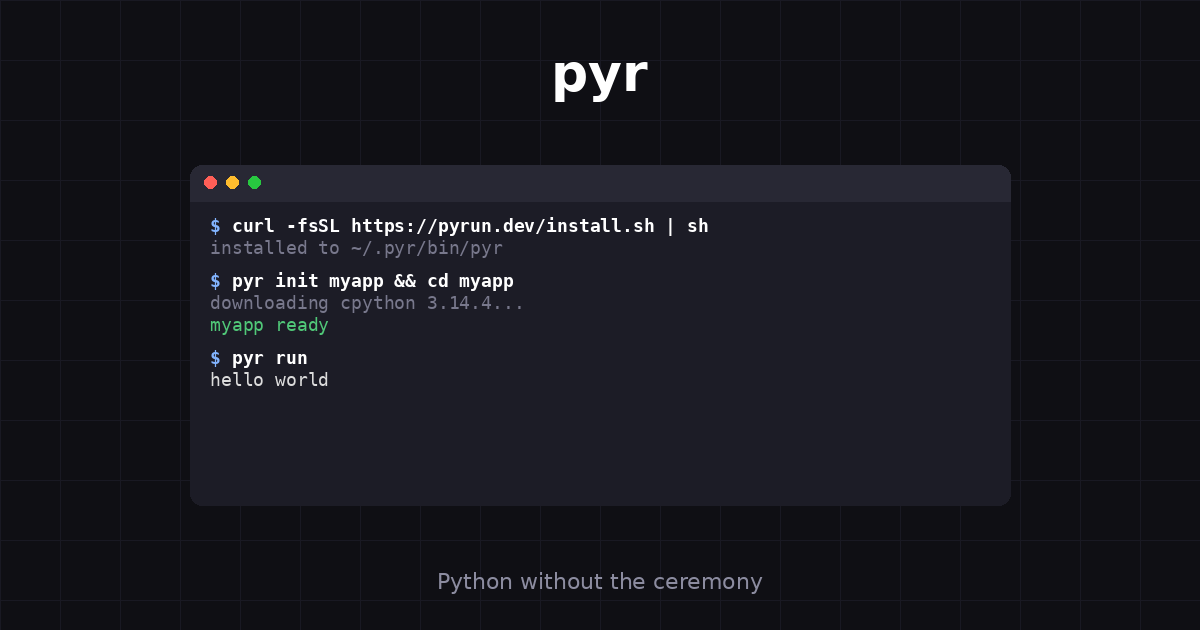
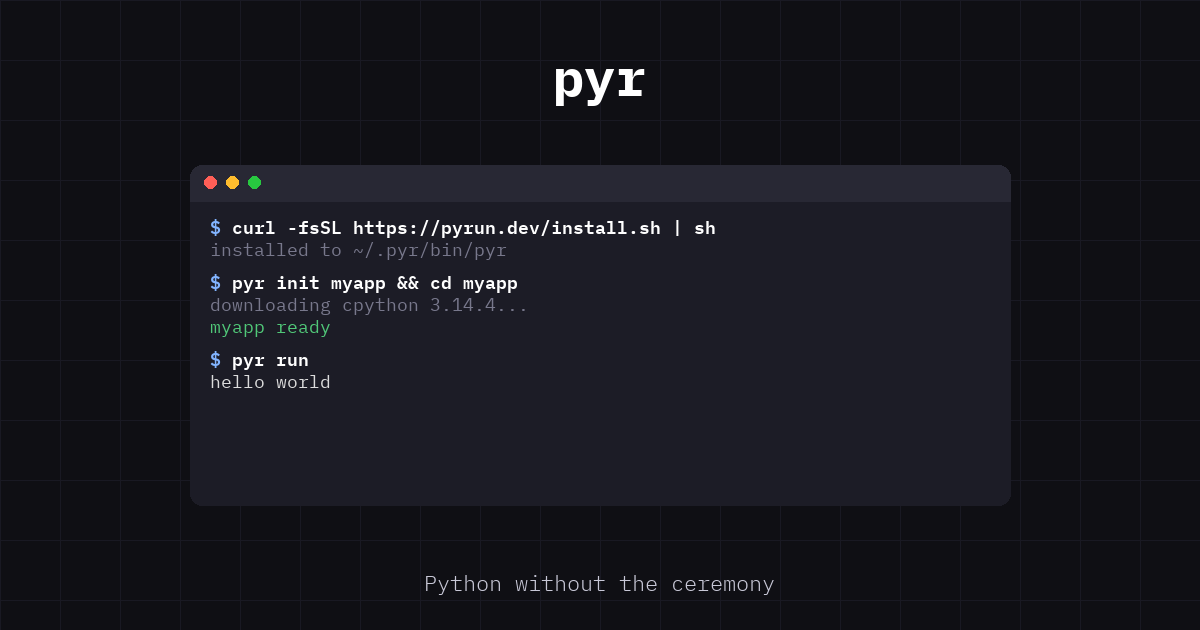
eating dogfood for generate-og, a pyr sub-app

Changed region(s): [[0.185, 0.3317, 0.5858, 0.6333], [0.3392, 0.9048, 0.6475, 0.9349], [0.4625, 0.0905, 0.555, 0.181]]

diff --git a/scripts/generate-og/app/main.py b/scripts/generate-og/app/main.py
@@ -1,0 +1,73 @@
+"""
+generates og.png for pyrun.dev
+Output: 1200x630px, drop in site/static/og.png
+Requires: pillow (pip install pillow)
+Run with: pyr run
+"""
+
+from PIL import Image, ImageDraw, ImageFont  # pip install pillow
+
+W, H = 1200, 630
+
+FONTS = "/Users/jasen/Library/Fonts"
+mono = ImageFont.truetype(f"{FONTS}/BlexMonoNerdFont-Regular.ttf", 18)
+mono_bold = ImageFont.truetype(f"{FONTS}/BlexMonoNerdFont-SemiBold.ttf", 18)
+big = ImageFont.truetype(f"{FONTS}/BlexMonoNerdFont-Bold.ttf", 52)
+sub = ImageFont.truetype(f"{FONTS}/BlexMonoNerdFont-Light.ttf", 22)
+
+img = Image.new("RGB", (W, H), (15, 15, 20))
+draw = ImageDraw.Draw(img)
+
+# Subtle grid
+for x in range(0, W, 60):
+    draw.line([(x, 0), (x, H)], fill=(25, 25, 35), width=1)
+for y in range(0, H, 60):
+    draw.line([(0, y), (W, y)], fill=(25, 25, 35), width=1)
+
+# Terminal window
+tw, th = 820, 340
+tx, ty = (W - tw) // 2, (H - th) // 2 + 20
+draw.rounded_rectangle([tx, ty, tx + tw, ty + th], radius=12, fill=(28, 28, 38))
+draw.rounded_rectangle([tx, ty, tx + tw, ty + 36], radius=12, fill=(40, 40, 52))
+draw.rectangle([tx, ty + 20, tx + tw, ty + 36], fill=(40, 40, 52))
+for i, c in enumerate([(255, 95, 87), (255, 189, 46), (40, 200, 64)]):
+    draw.ellipse([tx + 14 + i * 22, ty + 11, tx + 26 + i * 22, ty + 23], fill=c)
+
+# Terminal lines
+lines = [
+    ("curl -fsSL https://pyrun.dev/install.sh | sh", "prompt", None),
+    ("installed to ~/.pyr/bin/pyr", "muted", (120, 120, 140)),
+    ("", "gap", None),
+    ("pyr init myapp && cd myapp", "prompt", None),
+    ("downloading cpython 3.14.4...", "muted", (120, 120, 140)),
+    ("myapp ready", "ok", (80, 200, 120)),
+    ("", "gap", None),
+    ("pyr run", "prompt", None),
+    ("hello world", "normal", (220, 220, 220)),
+]
+
+lx, ly, line_h = tx + 20, ty + 50, 22
+
+for text, style, color in lines:
+    if style == "gap":
+        ly += line_h // 2
+        continue
+    if style == "prompt":
+        draw.text((lx, ly), "$ ", font=mono_bold, fill=(130, 180, 255))
+        ox = lx + draw.textlength("$ ", font=mono_bold)
+        draw.text((ox, ly), text, font=mono_bold, fill=(255, 255, 255))
+    else:
+        draw.text((lx, ly), text, font=mono, fill=color)
+    ly += line_h
+
+# "pyr" heading
+bw = draw.textlength("pyr", font=big)
+draw.text(((W - bw) // 2, 42), "pyr", font=big, fill=(255, 255, 255))
+
+# Tagline
+tag = "Python without the ceremony"
+tw2 = draw.textlength(tag, font=sub)
+draw.text(((W - tw2) // 2, H - 62), tag, font=sub, fill=(200, 200, 215))
+
+img.save("../../site/static/og.png")
+print("Saved og.png (1200x630)")

diff --git a/scripts/generate-og/app/config.py b/scripts/generate-og/app/config.py
@@ -1,0 +1,3 @@
+import os
+
+ENV = os.getenv("ENV", "development")

diff --git a/scripts/generate-og/README.md b/scripts/generate-og/README.md
@@ -1,0 +1,14 @@
+# generate-og
+
+generate-og is the first example of pyr eating it's own dogfood.
+
+This is how it was made:
+
+1. `pyr init genetate-og`
+2. `cd generate-og`
+3. `pyr add pillow`
+4. make edits to `generate-og/app/main.py`
+5. `pyr run`
+6. an `og.png` is now in my site's static directory.
+7. `.gitignore` comes along with `pyr init` allowing you to burry sub-apps in python regardless of
+   your repo's main language.
